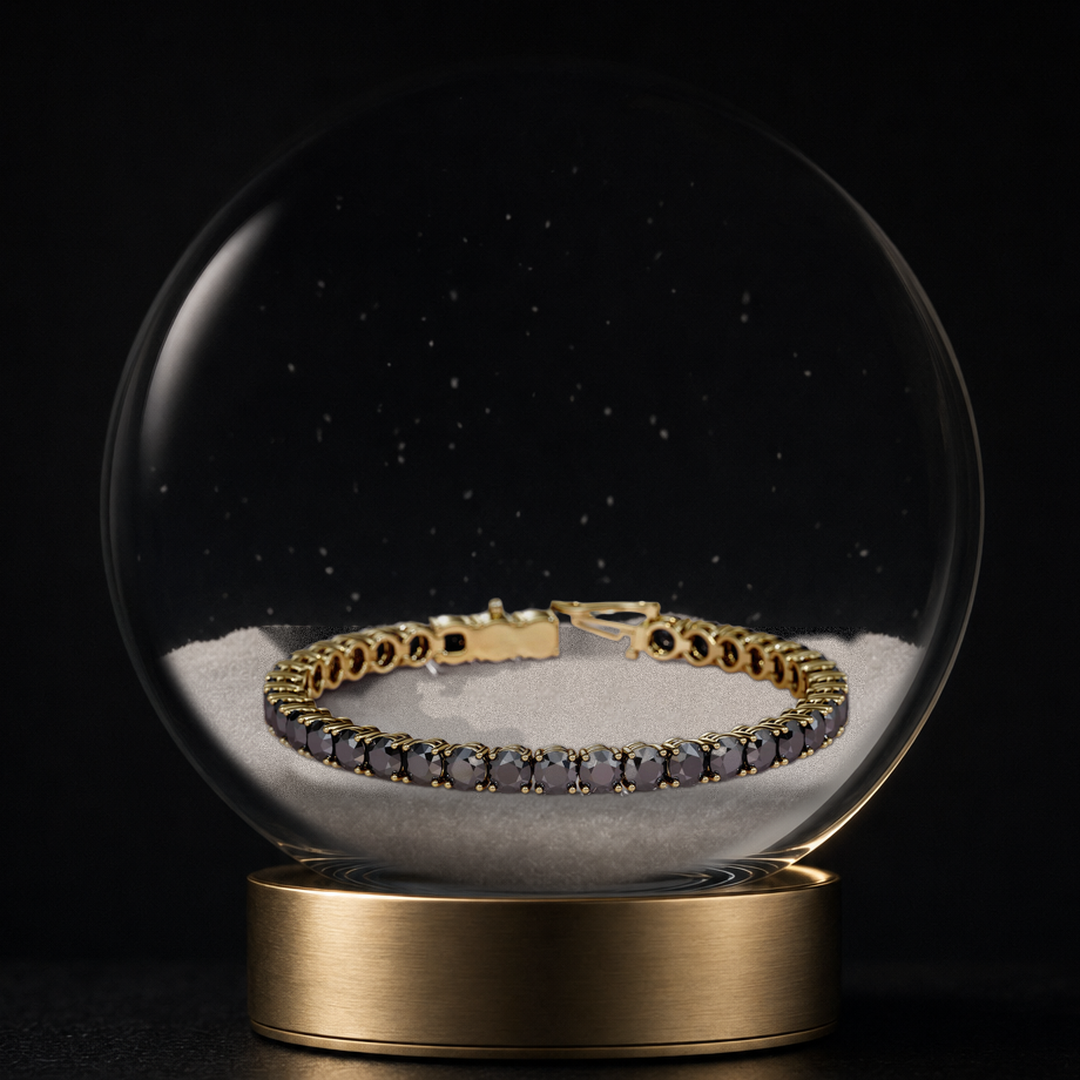
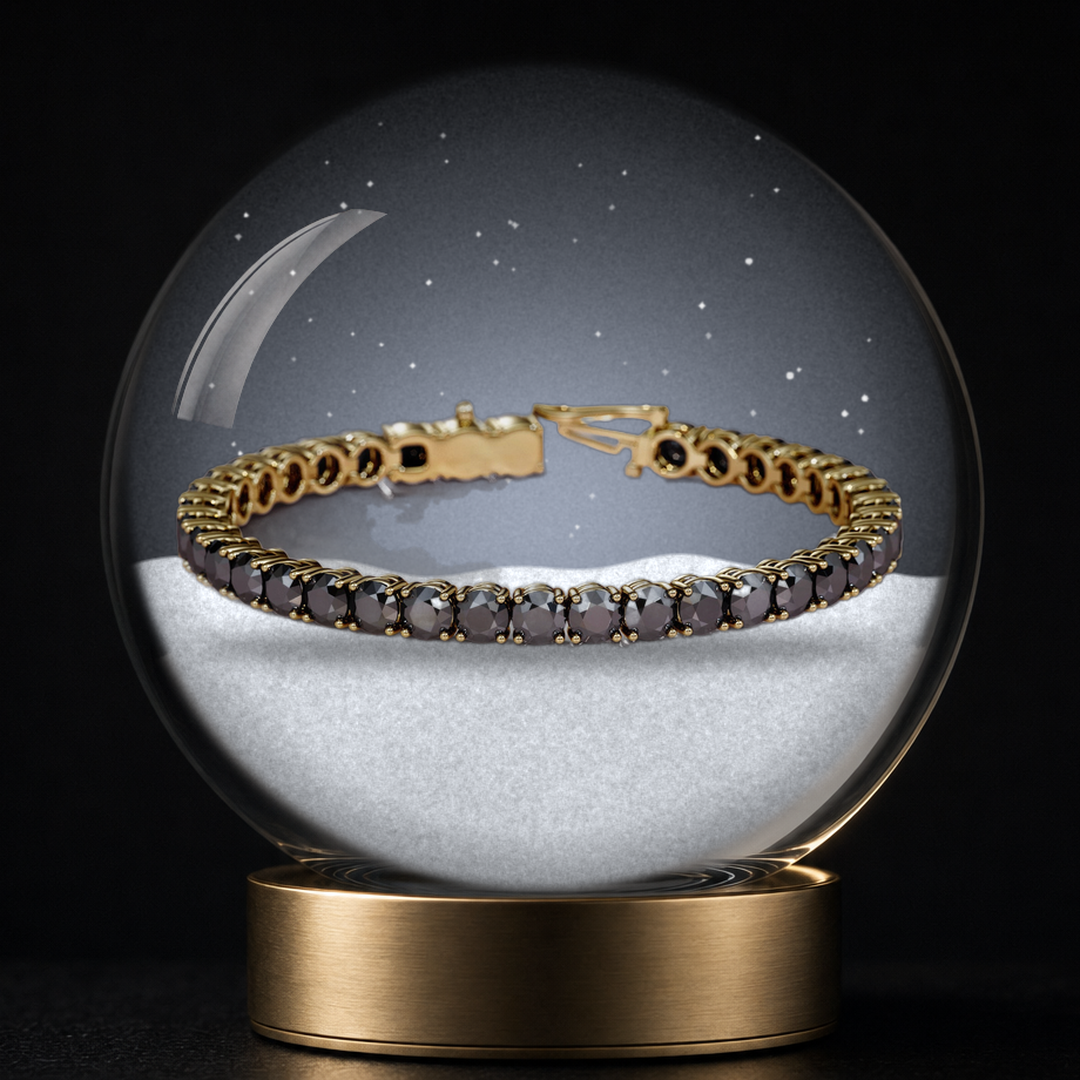
Highlight covers v3: rework SALE (higher bed, silver glow, larger King Cobra) so it reads at 64px

diff --git a/instagram-growth/2026-11-11/highlight-covers-xmas/v3-set/board.html b/instagram-growth/2026-11-11/highlight-covers-xmas/v3-set/board.html
@@ -21,6 +21,6 @@ The rows below are the true on-profile sizes (64px phone, 110px desktop), croppe
 <h2>REMNANT motion (3 s) &mdash; black-diamond shards falling</h2>
 <video src="covers/remnant-shards.mp4" autoplay loop muted playsinline style="width:360px;border-radius:6px"></video>
 <h2>Full size (1080 &times; 1080)</h2>
-<div class="full"><figure><img src="covers/gifts.png"><figcaption><b>Gifts</b> &middot; gold-leaf flakes<br><small>noir-eclipse-natural-black-diamond-halo-pendant-with-necklace</small></figcaption></figure><figure><img src="covers/sale.png"><figcaption><b>Sale</b> &middot; snow settled, deep white bed<br><small>king-cobra-black-diamonds-tennis-bracelet-in-yellow-gold</small></figcaption></figure><figure><img src="covers/remnant.png"><figcaption><b>REMNANT</b> &middot; black-diamond shards<br><small>disturbed-natural-black-diamond-engagement-ring</small></figcaption></figure><figure><img src="covers/bd.png"><figcaption><b>Black Diamonds</b> &middot; black + white snow<br><small>abyssal-4-carat-hoop-natural-black-diamond-3-sided-earrings</small></figcaption></figure><figure><img src="covers/reviews.png"><figcaption><b>Reviews</b> &middot; burgundy glitter + star sparkles<br><small>cor-caroli-heart-natural-black-diamond-bezel-ring</small></figcaption></figure><figure><img src="covers/mto.png"><figcaption><b>Made to Order</b> &middot; rose-gold bench filings<br><small>pallas-1-carat-cone-natural-black-diamond-spike-earrings</small></figcaption></figure><figure><img src="covers/care.png"><figcaption><b>Ring Care</b> &middot; fine white powder mist<br><small>melusine-oval-natural-black-diamond-split-shank-engagement-ring</small></figcaption></figure></div>
-<h2>QA (ai-image-qa)</h2><table style="border-collapse:collapse;max-width:1100px"><tr><td style="padding:4px 12px 4px 0;color:#cfb288;vertical-align:top">Gifts</td><td style="padding:4px 0">Pass. Real pendant re-pasted where the model put it; one faint gold squiggle top-left of the bail is AI residue (invisible below 300px).</td></tr><tr><td style="padding:4px 12px 4px 0;color:#cfb288;vertical-align:top">Sale</td><td style="padding:4px 0">Pass with note. The model had recoloured and moved the bracelet; its copy was erased (snow inpainted) and the real yellow-gold King Cobra laid on the bed. Inside the loop the snow is slightly smoother than the rest.</td></tr><tr><td style="padding:4px 12px 4px 0;color:#cfb288;vertical-align:top">REMNANT</td><td style="padding:4px 0">Pass. Disturbed ring 480px wide (was 330 in v2), nested in the shard heap - no floating.</td></tr><tr><td style="padding:4px 12px 4px 0;color:#cfb288;vertical-align:top">Black Diamonds</td><td style="padding:4px 0">Pass. Real Abyssal hoops; black pave on salt-and-pepper snow is low-contrast at 64px.</td></tr><tr><td style="padding:4px 12px 4px 0;color:#cfb288;vertical-align:top">Reviews</td><td style="padding:4px 0">Pass. Heart ring rests on the burgundy drift; no pink cast.</td></tr><tr><td style="padding:4px 12px 4px 0;color:#cfb288;vertical-align:top">Made to Order</td><td style="padding:4px 0">Pass. Silver filings regraded to rose-gold filings (snow only) so it does not read as Black Diamonds at 64px.</td></tr><tr><td style="padding:4px 12px 4px 0;color:#cfb288;vertical-align:top">Ring Care</td><td style="padding:4px 0">Pass. Split-shank openings kept open (no marble fill); milky glow is the brightest globe in the set.</td></tr></table>
+<div class="full"><figure><img src="covers/gifts.png"><figcaption><b>Gifts</b> &middot; gold-leaf flakes<br><small>noir-eclipse-natural-black-diamond-halo-pendant-with-necklace</small></figcaption></figure><figure><img src="covers/sale.png"><figcaption><b>Sale</b> &middot; snow settled high, cool silver glow<br><small>king-cobra-black-diamonds-tennis-bracelet-in-yellow-gold</small></figcaption></figure><figure><img src="covers/remnant.png"><figcaption><b>REMNANT</b> &middot; black-diamond shards<br><small>disturbed-natural-black-diamond-engagement-ring</small></figcaption></figure><figure><img src="covers/bd.png"><figcaption><b>Black Diamonds</b> &middot; black + white snow<br><small>abyssal-4-carat-hoop-natural-black-diamond-3-sided-earrings</small></figcaption></figure><figure><img src="covers/reviews.png"><figcaption><b>Reviews</b> &middot; burgundy glitter + star sparkles<br><small>cor-caroli-heart-natural-black-diamond-bezel-ring</small></figcaption></figure><figure><img src="covers/mto.png"><figcaption><b>Made to Order</b> &middot; rose-gold bench filings<br><small>pallas-1-carat-cone-natural-black-diamond-spike-earrings</small></figcaption></figure><figure><img src="covers/care.png"><figcaption><b>Ring Care</b> &middot; fine white powder mist<br><small>melusine-oval-natural-black-diamond-split-shank-engagement-ring</small></figcaption></figure></div>
+<h2>QA (ai-image-qa)</h2><table style="border-collapse:collapse;max-width:1100px"><tr><td style="padding:4px 12px 4px 0;color:#cfb288;vertical-align:top">Gifts</td><td style="padding:4px 0">Pass. Real pendant re-pasted where the model put it; one faint gold squiggle top-left of the bail is AI residue (invisible below 300px).</td></tr><tr><td style="padding:4px 12px 4px 0;color:#cfb288;vertical-align:top">Sale</td><td style="padding:4px 0">Pass (reworked 11.11 in code - OpenAI out of credit). Bed raised to 60% of the globe (procedural powder), cool silver glow inside so it no longer reads as a dark globe, real yellow-gold King Cobra enlarged to 620px and sunk into the bed with a contact shadow. Globe and base are the shared plate pixels.</td></tr><tr><td style="padding:4px 12px 4px 0;color:#cfb288;vertical-align:top">REMNANT</td><td style="padding:4px 0">Pass. Disturbed ring 480px wide (was 330 in v2), nested in the shard heap - no floating.</td></tr><tr><td style="padding:4px 12px 4px 0;color:#cfb288;vertical-align:top">Black Diamonds</td><td style="padding:4px 0">Pass. Real Abyssal hoops; black pave on salt-and-pepper snow is low-contrast at 64px.</td></tr><tr><td style="padding:4px 12px 4px 0;color:#cfb288;vertical-align:top">Reviews</td><td style="padding:4px 0">Pass. Heart ring rests on the burgundy drift; no pink cast.</td></tr><tr><td style="padding:4px 12px 4px 0;color:#cfb288;vertical-align:top">Made to Order</td><td style="padding:4px 0">Pass. Silver filings regraded to rose-gold filings (snow only) so it does not read as Black Diamonds at 64px.</td></tr><tr><td style="padding:4px 12px 4px 0;color:#cfb288;vertical-align:top">Ring Care</td><td style="padding:4px 0">Pass. Split-shank openings kept open (no marble fill); milky glow is the brightest globe in the set.</td></tr></table>
 </body></html>

diff --git a/instagram-growth/2026-11-11/highlight-covers-xmas/v3-set/sale_rework.py b/instagram-growth/2026-11-11/highlight-covers-xmas/v3-set/sale_rework.py
@@ -1,0 +1,57 @@
+"""SALE cover rework (Daniel: from a distance it read as a black globe). OpenAI credit was exhausted, so this is done
+in code from our own assets: the snow texture is the model's own settled bed (raw/sale-ai.png), raised to ~58% of the
+globe; the interior gets a cool silver glow (Ring Care is warm); the real King Cobra goes on top, larger, via
+gen3.paste. Writes raw/sale.png (scene without jewel) -> then `python gen3.py paste sale`."""
+import os
+import numpy as np, cv2
+from PIL import Image
+import gen3
+
+N = gen3.N
+sp = gen3.sphere(); CX, CY, R = sp['cx'], sp['cy'], sp['r']
+SURF = int(CY - R + 0.60 * 2 * R)
+rng = np.random.default_rng(5)
+
+ai = cv2.cvtColor(cv2.imread(os.path.join(gen3.RAW, 'sale-ai.png')), cv2.COLOR_BGR2RGB).astype(np.float32)
+# 1. snow texture: procedural powder grain (fine + medium) on cool white, with soft low-frequency drifts
+def noise(sig, amp):
+    n = cv2.GaussianBlur(rng.normal(0, 1, (N, N)).astype(np.float32), (0, 0), sig)
+    return n / (n.std() + 1e-6) * amp
+g = noise(0.6, 7) + noise(1.6, 5) + noise(45, 5)
+sparkle = (rng.random((N, N)) > 0.9965).astype(np.float32)
+sparkle = cv2.GaussianBlur(sparkle, (0, 0), 0.7) * 60
+tex = (232 + g + sparkle)[..., None] * np.ones(3)
+
+yy, xx = np.mgrid[0:N, 0:N].astype(np.float32)
+d = np.sqrt((xx - CX) ** 2 + (yy - CY) ** 2)
+inside = cv2.GaussianBlur((d < R - 16).astype(np.float32), (0, 0), 5)
+
+# 2. the bed: a softly undulating lip seen slightly from above (an ellipse of the sphere's chord at SURF)
+half = np.sqrt(max(R ** 2 - (SURF - CY) ** 2, 1))
+lip = SURF + 26 * (1 - np.clip(((xx - CX) / half) ** 2, 0, 1)) ** 0.5 * 0 + 6 * np.sin(xx / 61.0) + 4 * np.sin(xx / 23.0 + 1)
+bed = np.clip((yy - lip) / 3.0, 0, 1)
+shade = 1 - 0.20 * np.clip((yy - SURF) / (CY + R - SURF), 0, 1)          # deeper snow a touch darker
+rim = 1 - 0.30 * np.clip((d - (R - 70)) / 60, 0, 1)                      # snow darkens against the curved glass
+lipglow = 1 + 0.07 * np.exp(-((yy - lip - 30) / 34) ** 2) - 0.05 * np.exp(-((yy - lip - 2) / 3) ** 2)                # light catching the top of the bed
+bed_rgb = tex * (shade * rim * lipglow)[..., None] * np.array([0.97, 0.99, 1.02])
+
+# 3. the liquid above: cool silver glow, brightest just above the bed, plus a few settling flakes
+glow = np.exp(-(((xx - CX) / 330) ** 2 + ((yy - (SURF - 40)) / 260) ** 2))
+liquid = 22 + 150 * glow
+liquid = liquid[..., None] * np.array([0.90, 0.95, 1.05])[None, None, :]
+liquid = liquid * (1 - 0.35 * np.clip((d - (R - 90)) / 80, 0, 1))[..., None]
+fl = np.zeros((N, N), np.float32)
+for _ in range(70):
+    x, y = rng.uniform(CX - R * .8, CX + R * .8), rng.uniform(CY - R * .85, SURF - 20)
+    cv2.circle(fl, (int(x * 4), int(y * 4)), int(rng.uniform(1.0, 2.6) * 4), float(rng.uniform(.4, .95)), -1, cv2.LINE_AA, 2)
+fl = cv2.GaussianBlur(fl, (0, 0), .8)
+liquid = liquid + (250 - liquid) * fl[..., None] + noise(0.8, 2.5)[..., None]
+
+scene = liquid * (1 - bed[..., None]) + bed_rgb * bed[..., None]
+# 4. keep the model's glass reflections: screen the plate's highlights back over the new interior
+plate = cv2.cvtColor(cv2.imread(os.path.join(gen3.RAW, 'plate.png')), cv2.COLOR_BGR2RGB).astype(np.float32)
+hi = np.clip((plate - 120) / 135, 0, 1) * (yy < SURF - 20)[..., None]
+scene = scene + (255 - scene) * hi * 0.8
+out = ai * (1 - inside[..., None]) + scene * inside[..., None]
+Image.fromarray(np.clip(out, 0, 255).astype(np.uint8)).save(os.path.join(gen3.RAW, 'sale.png'))
+print('sale scene, bed lip at y', SURF)

diff --git a/instagram-growth/2026-11-11/highlight-covers-xmas/v3-set/board.py b/instagram-growth/2026-11-11/highlight-covers-xmas/v3-set/board.py
@@ -3,7 +3,7 @@ the way Instagram crops a highlight) on a light and a dark profile background, s
 Writes board.html (+ board.png via headless Chrome)."""
 import os, subprocess, json
 HERE = os.path.dirname(os.path.abspath(__file__))
-ORDER = [('gifts', 'Gifts', 'gold-leaf flakes'), ('sale', 'Sale', 'snow settled, deep white bed'),
+ORDER = [('gifts', 'Gifts', 'gold-leaf flakes'), ('sale', 'Sale', 'snow settled high, cool silver glow'),
          ('remnant', 'REMNANT', 'black-diamond shards'), ('bd', 'Black Diamonds', 'black + white snow'),
          ('reviews', 'Reviews', 'burgundy glitter + star sparkles'), ('mto', 'Made to Order', 'rose-gold bench filings'),
          ('care', 'Ring Care', 'fine white powder mist')]
@@ -23,7 +23,7 @@ full = ''.join(f'<figure><img src="covers/{k}.png"><figcaption><b>{t}</b> &middo
                f'</figcaption></figure>' for k, t, s in ORDER)
 QA = {
  'gifts': 'Pass. Real pendant re-pasted where the model put it; one faint gold squiggle top-left of the bail is AI residue (invisible below 300px).',
- 'sale': 'Pass with note. The model had recoloured and moved the bracelet; its copy was erased (snow inpainted) and the real yellow-gold King Cobra laid on the bed. Inside the loop the snow is slightly smoother than the rest.',
+ 'sale': 'Pass (reworked 11.11 in code - OpenAI out of credit). Bed raised to 60% of the globe (procedural powder), cool silver glow inside so it no longer reads as a dark globe, real yellow-gold King Cobra enlarged to 620px and sunk into the bed with a contact shadow. Globe and base are the shared plate pixels.',
  'remnant': 'Pass. Disturbed ring 480px wide (was 330 in v2), nested in the shard heap - no floating.',
  'bd': 'Pass. Real Abyssal hoops; black pave on salt-and-pepper snow is low-contrast at 64px.',
  'reviews': 'Pass. Heart ring rests on the burgundy drift; no pink cast.',

diff --git a/instagram-growth/2026-11-11/highlight-covers-xmas/v3-set/gen3.py b/instagram-growth/2026-11-11/highlight-covers-xmas/v3-set/gen3.py
@@ -42,7 +42,7 @@ COVERS = {
         "the snow is GOLD: hundreds of thin flakes of beaten 24k gold leaf, crinkled, catching the light, drifting "
         "through the liquid around the jewel, densest in the upper half, and a low glittering drift of gold flakes on "
         "the floor of the globe (the floor sits at 74% of the sphere height). The whole globe glows warm gold. ")),
-    'sale': dict(piece='king-cobra-yg', w=500, floor=0.62, force=((560, 640), 1.0), erase=(310, 584, 820, 722), fill=False, snow=(
+    'sale': dict(piece='king-cobra-yg', w=620, floor=0.60, force=((546, 492), 1.0), shadow=0.5, fill=False, snow=(
         "the snow has almost all SETTLED: a deep, smooth bed of fine white powder snow fills the lower part of the "
         "globe, and its flat surface is exactly level with the lower edge of the tennis bracelet, which lies on top of "
         "the bed where it already is; only a handful of last flakes still drift in the clear dark liquid above. ")),
